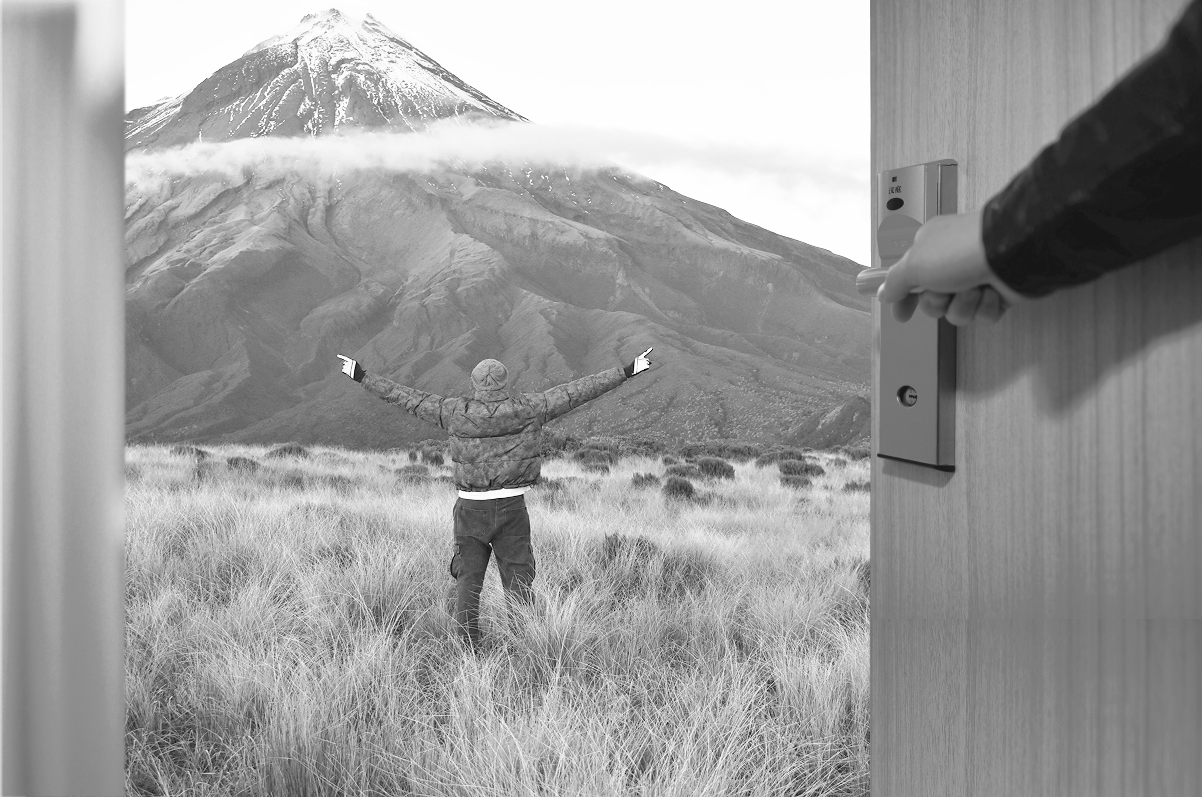
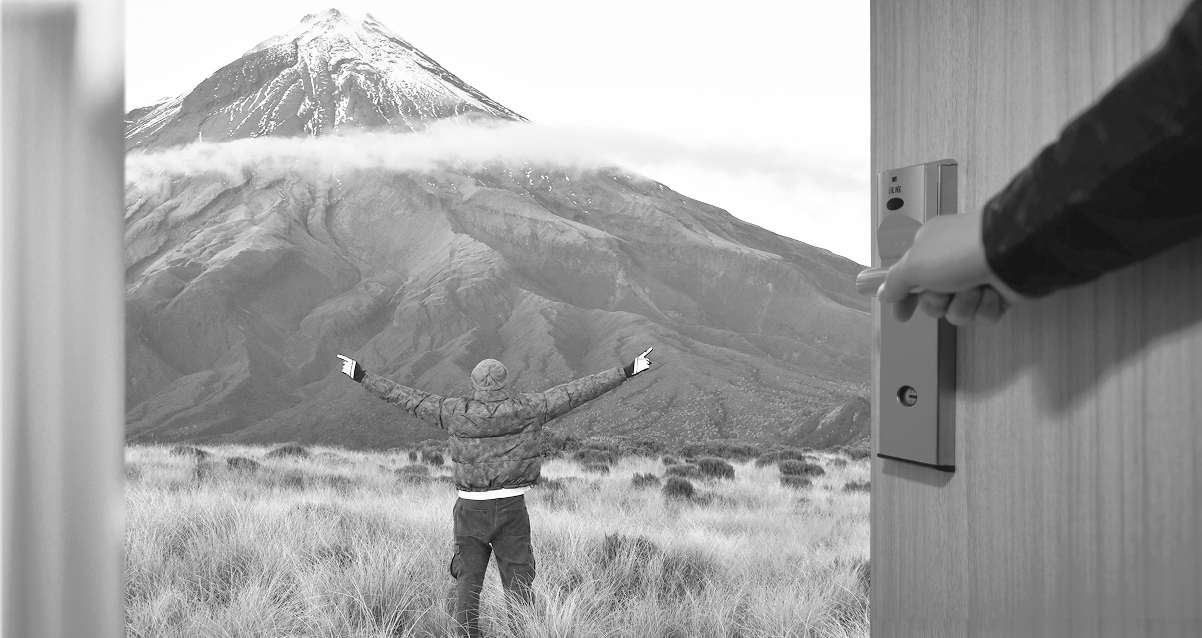
Add "More than a visa" section and polish surrounding sections
Introduces a new homepage section between "Why choose Harmony" and
"Meet the team" covering job readiness, English prep, translation,
and settlement support, with matching pictograms.

Also: fixes a card-height mismatch in "Why choose Harmony" caused by
grid row stretching, re-crops the hero photo, darkens the Section 3
step numbers, and adds a consistent arrow + balanced two-line text
treatment to the Section 2 and Section 5 card descriptions (tuned to
hold up across mobile, tablet, and desktop widths).

diff --git a/src/styles/global.css b/src/styles/global.css
@@ -226,7 +226,7 @@
 
   /* Stronger resting definition — border + shadow visible by default, more dramatic on hover */
   .card-highlight {
-    border-color: #55BFC0;
+    border-color: var(--color-neutral-200);
     box-shadow: var(--shadow-sm);
   }
   .card-highlight:hover {
